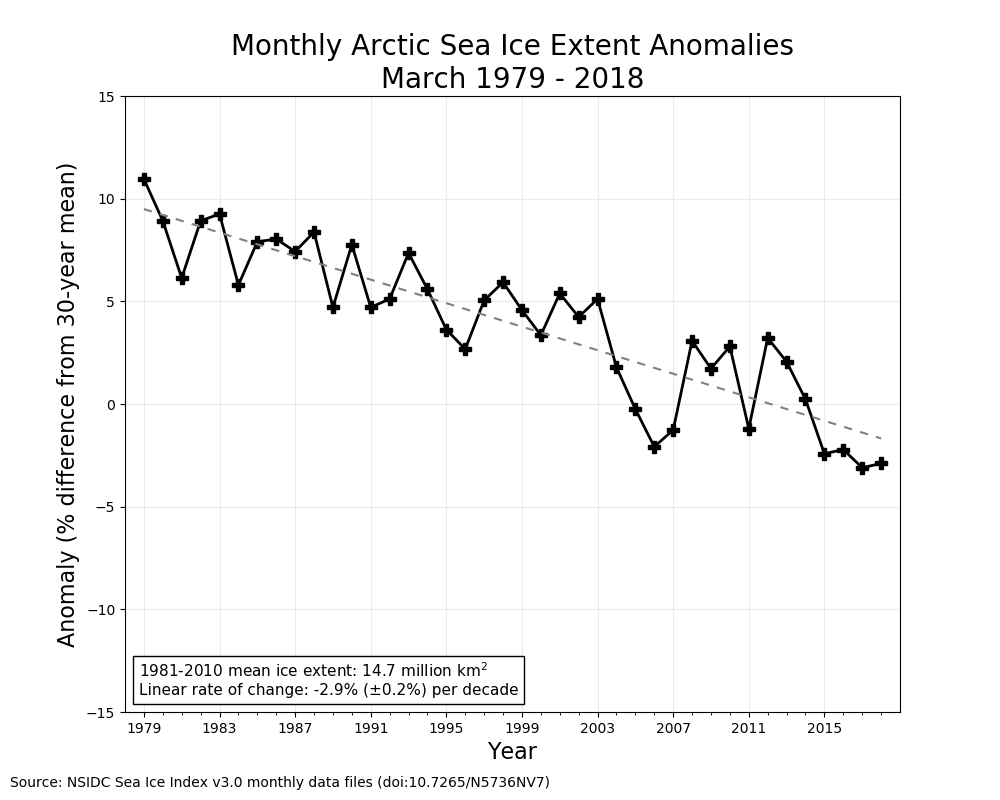
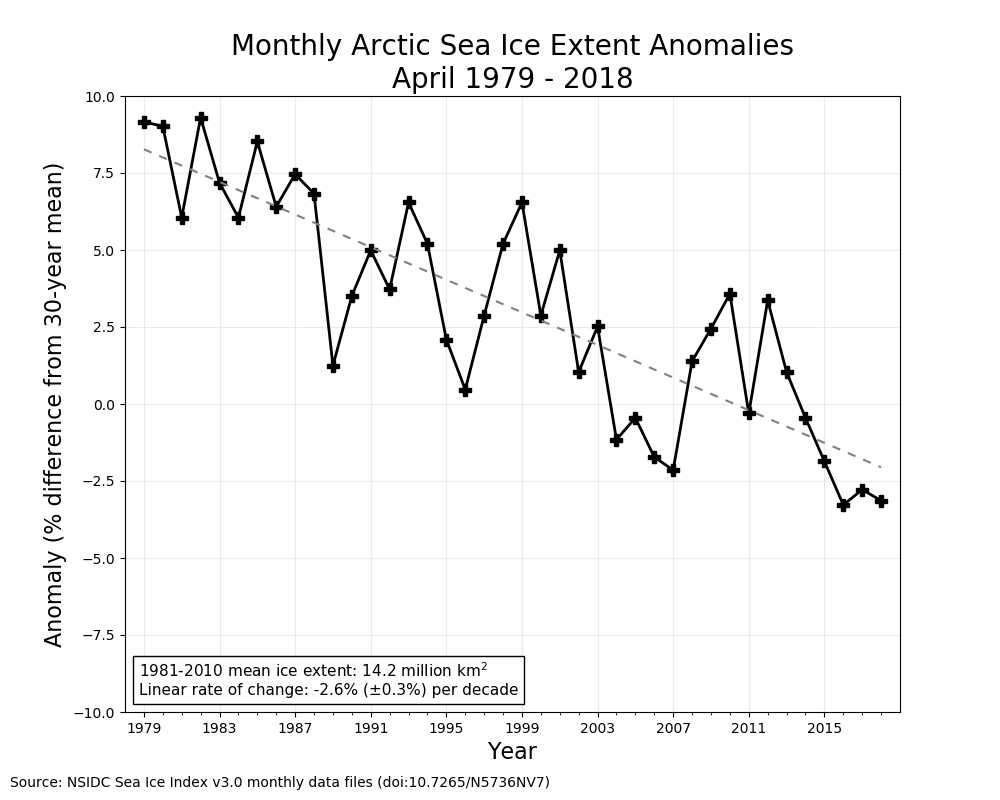
Update plots for April - MonthlyIceIndexPlotter -> change modtime requirement to 5 days from 15 - MonthlyIceIndexPlotter -> change curr_month variable to store str

diff --git a/nsidc-tools/MonthlyIceIndexPlotter.py b/nsidc-tools/MonthlyIceIndexPlotter.py
@@ -54,7 +54,7 @@ def download_monthly_data(download_dir, hemisphere='N'):
         print "No files found at remote FTP:", csv_url
         return None
     for src_file in csv_files:
-        curr_month = datetime(1900, int(os.path.basename(src_file).split("_")[1]), 1)
+        curr_month = datetime(1900, int(os.path.basename(src_file).split("_")[1]), 1).strftime("%b")
         dst_file = os.path.join(download_dir, os.path.basename(src_file))
         you_gotta_download = False
         if not os.path.exists(dst_file):
@@ -62,16 +62,16 @@ def download_monthly_data(download_dir, hemisphere='N'):
         else:
             # Re-download the file if it is >15 days older relative to current day at start of script execution
             modtime = datetime.fromtimestamp(os.path.getmtime(dst_file))
-            if modtime <= today - relativedelta(days=15):
+            if modtime <= today - relativedelta(days=5):
                 you_gotta_download = True
         if you_gotta_download: # then go get it!
-            print "Retrieving {}-hemisphere monthly data ({}) from NSIDC FTP...".format(hemisphere, curr_month.strftime("%b"))
+            print "Retrieving {}-hemisphere monthly data ({}) from NSIDC FTP...".format(hemisphere, curr_month)
             remote_data = urlopen(src_file)
             with open(dst_file, 'wb') as local_data:
                 copyfileobj(remote_data, local_data)
             remote_data.close()
         else:
-            print "Existing local monthly ({}) dataset for {}-hemisphere is fresh enough...".format(curr_month.strftime("%b"), hemisphere)
+            print "Existing local monthly ({}) dataset for {}-hemisphere is fresh enough...".format(curr_month, hemisphere)
     return None
 
 

diff --git a/nsidc-tools/DailyIceIndexPlotter.py b/nsidc-tools/DailyIceIndexPlotter.py
@@ -222,7 +222,7 @@ def main(cfg):
     plot_dir = cfg['plot_dir']
 
     # prep
-    if not os.path.exists(data_dir): 
+    if not os.path.exists(data_dir):
         os.makedirs(data_dir)
     N_daily_csv, N_daily_climo = download_daily_data(data_dir, hemisphere='N')
     S_daily_csv, S_daily_climo = download_daily_data(data_dir, hemisphere='S')
